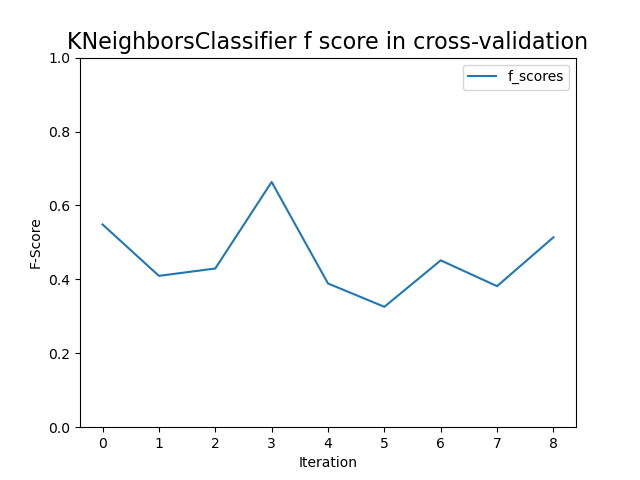
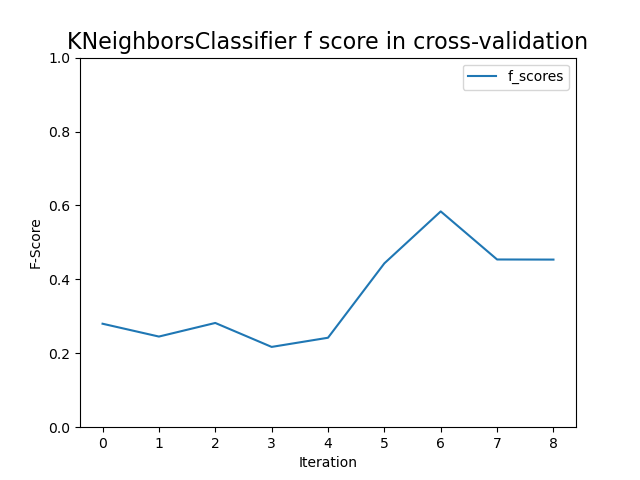
Export of plots with modification in the main to count 0 valued scores

diff --git a/main.py b/main.py
@@ -30,7 +30,7 @@ LONG_WINDOW = 6
 FLAT_THRESHOLD = 0.01
 
 N_SPLITS = 9  # 28
-TEST_SIZE = 30  # 60
+TEST_SIZE = 60  # 30
 
 EXPORT_DATAFRAME_ON_CSV = False
 EXPORT_CLASSIFIER = False
@@ -129,7 +129,7 @@ def plot_accuracy_cross_validation(clf, scores):
 
 
 def plot_fscore_cross_validation(clf, f1_down, f1_flat, f1_up):
-    print(str(f1_down)+","+str(f1_flat)+","+str(f1_up))
+    #print(str(f1_down)+","+str(f1_flat)+","+str(f1_up))
 
     f1_avg = []
     for i in range(len(f1_up)):
@@ -232,30 +232,62 @@ def cross_validation(dataset, predictors, classifier):
 
         try:
             f1_scores_down.append(f1[0])
-            precision_scores_down.append(precision[0])
-            recall_scores_down.append(recall[0])
         except Exception as e:
             f1_scores_down.append(0)
             print("Exception: " + str(e))
         try:
+            precision_scores_down.append(precision[0])
+        except Exception as e:
+            precision_scores_down.append(0)
+            print("Exception: " + str(e))
+        try:
+            recall_scores_down.append(recall[0])
+        except Exception as e:
+            recall_scores_down.append(0)
+            print("Exception: " + str(e))
+
+        try:
             f1_scores_flat.append(f1[1])
-            precision_scores_flat.append(precision[1])
-            recall_scores_flat.append(recall[1])
         except Exception as e:
             f1_scores_flat.append(0)
             print("Exception: " + str(e))
         try:
+            precision_scores_flat.append(precision[1])
+        except Exception as e:
+            precision_scores_flat.append(0)
+            print("Exception: " + str(e))
+        try:
+            recall_scores_flat.append(recall[1])
+        except Exception as e:
+            recall_scores_flat.append(0)
+            print("Exception: " + str(e))
+
+        try:
             f1_scores_up.append(f1[2])
-            precision_scores_up.append(precision[2])
-            recall_scores_up.append(recall[2])
         except Exception as e:
             f1_scores_up.append(0)
+            print("Exception: " + str(e))
+
+        try:
+            precision_scores_up.append(precision[2])
+        except:
+            precision_scores_up.append(0)
+            print("Exception: " + str(e))
+        try:
+            recall_scores_up.append(recall[2])
+        except Exception as e:
+            recall_scores_up.append(0)
             print("Exception: " + str(e))
 
     print("ACCURACY OVERALL MEAN: " + str(np.mean(accuracy_scores)) + " FOR CLASSIFIER: " + str(classifier))
     print("F1 OVERALL MEAN FOR LABEL -1: " + str(np.mean(f1_scores_down)) + " / FOR LABEL 0: " + str(
         np.mean(f1_scores_flat)) + " / FOR LABEL 1: " + str(
         np.mean(f1_scores_up)) + " FOR CLASSIFIER: " + str(classifier))
+
+    print(precision_scores_down, precision_scores_flat, precision_scores_flat)
+    print(recall_scores_down, recall_scores_flat, recall_scores_up)
+    print(f1_scores_down, f1_scores_flat, f1_scores_up)
+
     return np.mean(accuracy_scores), np.mean(f1_scores_down), np.mean(f1_scores_flat), np.mean(f1_scores_up),   \
            np.mean(precision_scores_down), np.mean(precision_scores_flat), np.mean(precision_scores_up),        \
            np.mean(recall_scores_down),  np.mean(recall_scores_flat), np.mean(recall_scores_up),                \
